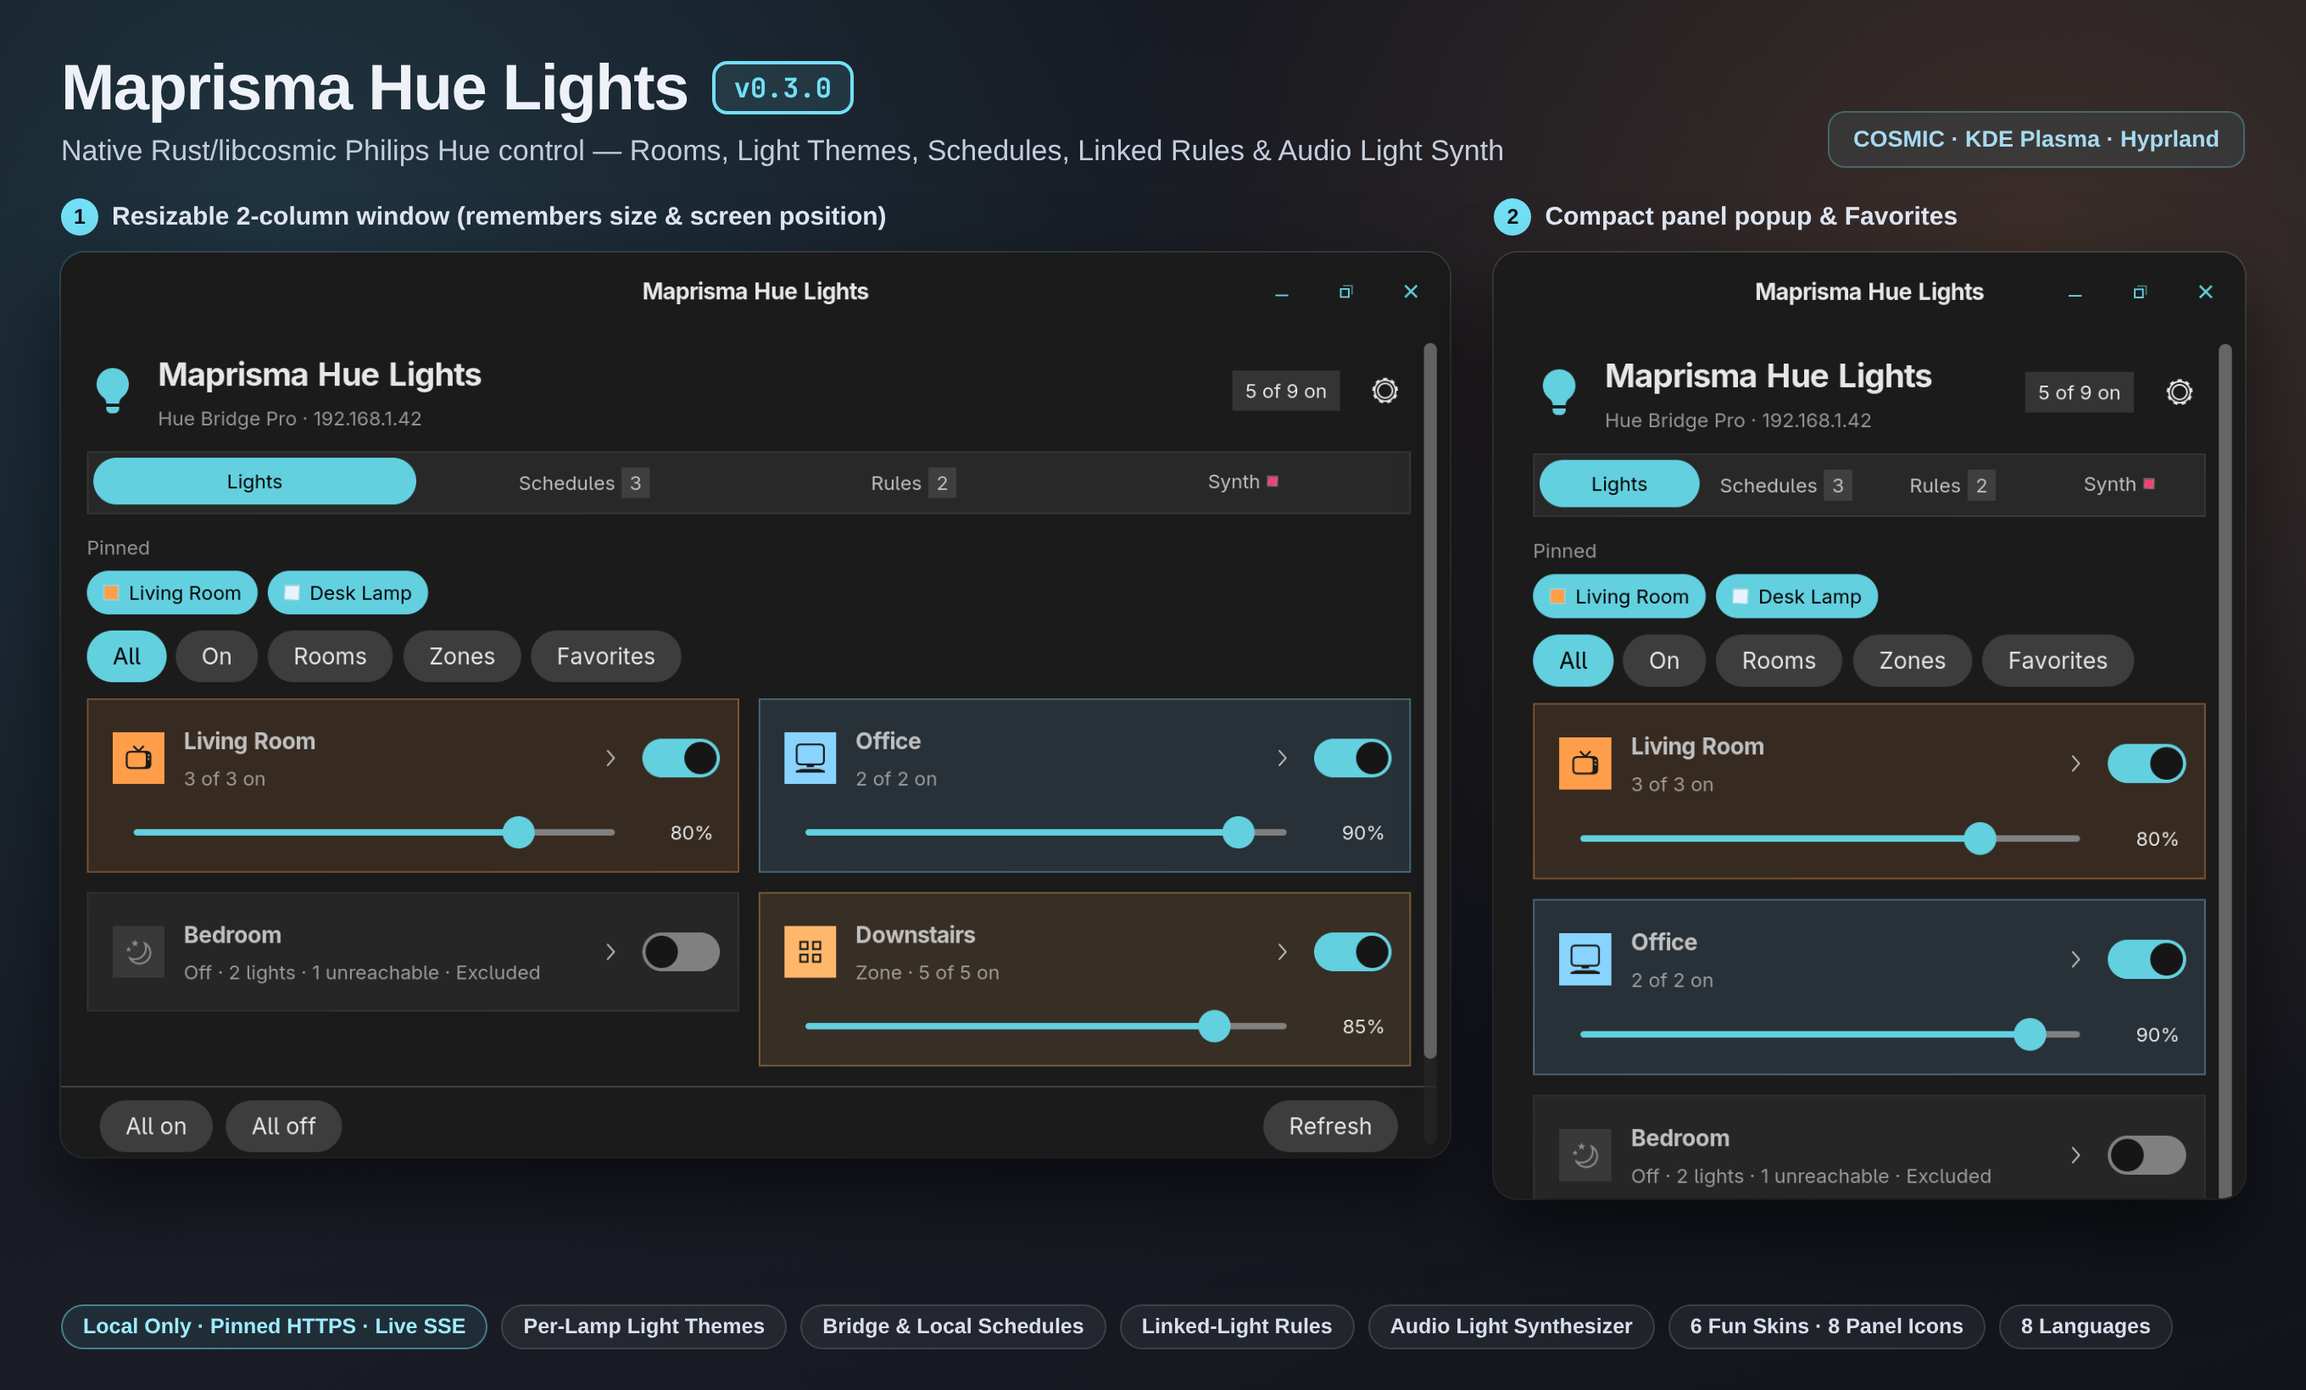
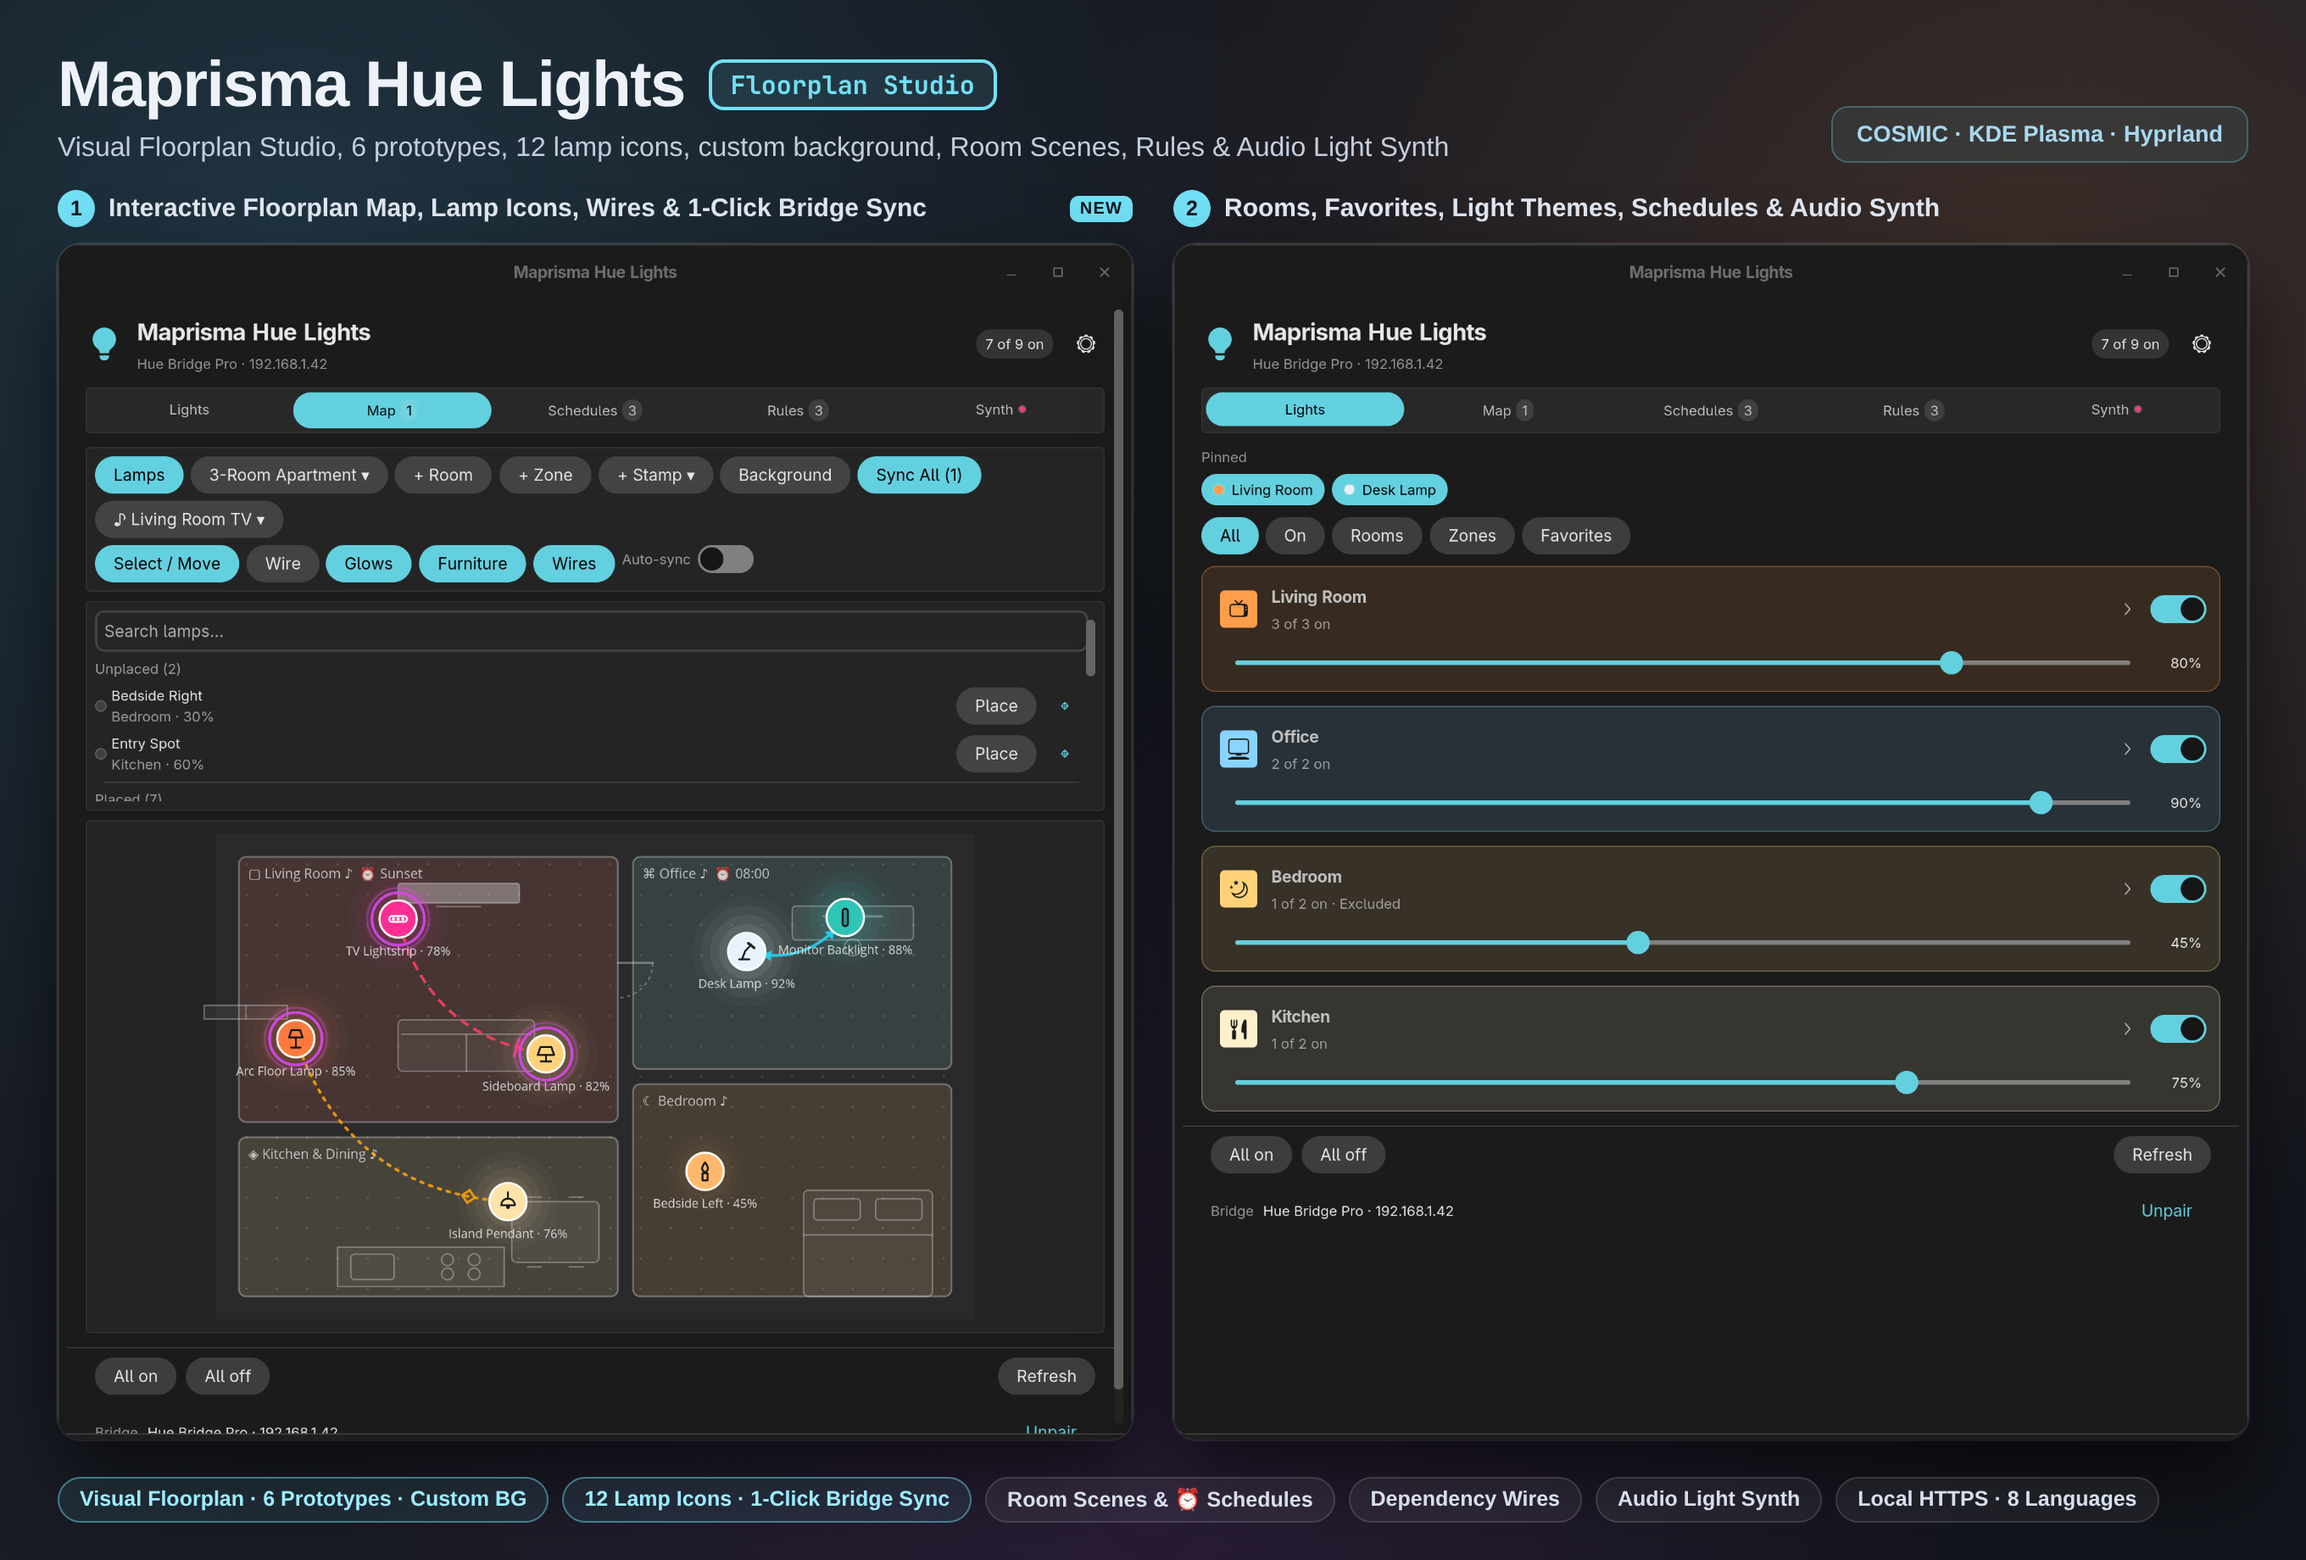
docs: add 2x Floorplan Studio screenshot and updated marketing descriptions

diff --git a/src/main.rs b/src/main.rs
@@ -3103,8 +3103,17 @@ impl<const WINDOW_MODE: bool> cosmic::Application for HueLights<WINDOW_MODE> {
             exclude_all_on: exclude_all_on_setting(),
             ..Default::default()
         };
-        // Debug builds only: start on the settings page (for off-screen screenshots).
-        app.settings_open = cfg!(debug_assertions) && std::env::var("MAPRISMA_SHOT_PAGE").as_deref() == Ok("settings");
+        // Debug builds only: start on a specific page/tab (for off-screen screenshots).
+        if cfg!(debug_assertions) {
+            match std::env::var("MAPRISMA_SHOT_PAGE").as_deref() {
+                Ok("settings") => app.settings_open = true,
+                Ok("map") => app.tab = Tab::Map,
+                Ok("schedules") => app.tab = Tab::Schedules,
+                Ok("rules") => app.tab = Tab::Rules,
+                Ok("synth") => app.tab = Tab::Synth,
+                _ => {}
+            }
+        }
         let title = if window_mode { app.name_window() } else { Task::none() };
         if window_mode {
             app.resize = window_size::Debounce::new(start_size);

diff --git a/README.md b/README.md
@@ -1,18 +1,19 @@
 # Maprisma Hue Lights
 
-A native Linux desktop & panel app (Rust/libcosmic) for **Philips Hue** on **COSMIC**, **KDE Plasma**, and **Hyprland**. Control rooms, zones, individual lights, color, Kelvin warmth, native CLIP v2 effects, per-lamp Light Themes, Bridge or local schedules, linked-light rules, and a real-time Audio-Reactive Light Synthesizer — directly over your local Hue Bridge with pinned HTTPS and zero cloud account.
+A native Linux desktop & panel app (Rust/libcosmic) for **Philips Hue** on **COSMIC**, **KDE Plasma**, and **Hyprland**. Design an interactive **Visual Floorplan & Spatial Light Studio** for your home, control rooms, zones, individual lights, color, Kelvin warmth, native CLIP v2 effects, per-lamp Light Themes, Bridge or local schedules, linked-light rules, and a real-time Audio-Reactive Light Synthesizer — directly over your local Hue Bridge with pinned HTTPS and zero cloud account.
 
 ![Maprisma Hue Lights](preview.png)
 
-## Highlights (v0.3.0)
+## Highlights
 
+- **Visual Floorplan & Spatial Light Studio (`Map` tab):** Place lamps freely from a searchable **Unplaced / Placed** sidebar onto an interactive 2D home canvas with live color halos. Start from **6 editable house/apartment prototypes** (*Auto from Hue Bridge, Studio / Loft, 1-Bedroom Apartment, 3-Room Apartment, Family House + Terrace, Desk & Gaming Studio*) with draggable, 90°-rotatable architectural furniture stamps (*Door, Window, Sofa, TV, Desk, Bed, Dining, Kitchen*) — or import an optional **custom floorplan background image** (PNG/JPG/WebP via native XDG Desktop Portal picker, with opacity & contain/cover controls). Pick from **12 custom vector lamp icons**, rename lamps inline, surround lamps with **resizable Room & Zone boxes**, trigger or save **Room Scenes**, schedule scenes in 1 click (**⏰ Schedule scene**), draw **typed Bezier dependency wires** (Solid Cyan *Follow/Mirror*, Dashed Coral *Exclusive*, Dotted Amber *Companion*, Magenta *Synth* halo), and push all changes + Entertainment Area 2D/3D positions to your Hue Bridge via **1-click Sync All** or **Auto-sync**.
 - **Lights, Rooms & Scenes:** One card per room and zone with Hue archetype icons, live CLIP v2 Server-Sent Events (`/eventstream/clip/v2`) updates, brightness sliders, filter pills (*All, On, Rooms, Zones, Favorites*), pinned **Favorites** strip, smart **All On** (with per-room *Exclude from All On* + optional confirmation) and **All Off**.
 - **Color, Kelvin Warmth, Effects & Per-Lamp Light Themes:** Expand any light for warmth presets (2000K–6500K), color swatches, native Hue effects (*Candle, Fire, Sparkle, Prism, …*), 8 curated **Light Themes** (*Reading, Relax, Focus, Sunset Glow, Deep Ocean, Cyberpunk, Fireplace, Nightlight*), plus custom themes saved to `themes.json` and *"Save current as theme"*.
-- **Schedules (`Bridge` or `Local`):** Create, toggle, and delete per-light or per-room schedules with weekday recurrence, brightness, and fade duration. Choose in Settings between **On Hue Bridge** (`behavior_instance`, runs 24/7 even when your PC is off, including sunrise/sunset) or **On this PC (live)** (`local_schedules.json`, cross-process deduplicated).
-- **Dependency / Linked-Light Rules:** Link lights and rooms with **Follow / Mirror**, **Exclusive**, and **Companion** rules (optional brightness matching, *Only if off*, overnight time windows, static cycle detection, state-aware echo suppression, pause toggle, and activity log).
+- **Schedules (`Bridge` or `Local`):** Create, toggle, and delete per-light, per-room, or **room-scene** schedules with weekday recurrence, brightness, and fade duration. Choose in Settings between **On Hue Bridge** (`behavior_instance`, runs 24/7 even when your PC is off, including sunrise/sunset) or **On this PC (live)** (`local_schedules.json`, cross-process deduplicated).
+- **Dependency / Linked-Light Rules:** Link lights and rooms — in the Rules tab or visually on the Floorplan Map — with **Follow / Mirror**, **Exclusive**, and **Companion** rules (optional brightness matching, *Only if off*, overnight time windows, static cycle detection, state-aware echo suppression, pause toggle, and activity log).
 - **Audio-Reactive Light Synthesizer (`Synth` tab):** Live 3-band Bass / Mids / Treble meters with beat detection driving your Hue lights in real time from **System audio** (`parec @DEFAULT_MONITOR@`), **Microphone** (`parec @DEFAULT_SOURCE@`), or built-in **Demo beat**. Choose from 4 modes (*Club, Chill, Ambient, Strobe*), 6 color palettes, target room, sensitivity/smoothness sliders, and per-light frequency band routing. Audio is analyzed strictly in memory and never recorded or transmitted.
 - **6 Skins, 8 Selectable Panel Icons & Appearance:** Pick from *System Native, Neon Synthwave, Cozy Cabin, Retro Terminal, Disco Lava*, or *Minimal Zen*, choose from 8 symbolic panel icons (with optional lit-count badge), adjust **Corners** and **Text size**, and use all 8 built-in languages (*English, Deutsch, Français, Español, Italiano, Português, Nederlands, Polski*).
-- **Saved Window Size & Screen Position:** Resizing or moving the `--window` window persists its size and (on Hyprland) screen position cleanly across restarts and across all 4 tabs.
+- **Saved Window Size & Screen Position:** Resizing or moving the `--window` window persists its size and (on Hyprland) screen position cleanly across restarts and across all 5 tabs.
 - **Pairing:** Automatic mDNS bridge discovery (`avahi-browse`) or manual local IPv4 address, then one press of the bridge's link button.
 
 ## Architecture & Privacy
@@ -20,7 +21,7 @@ A native Linux desktop & panel app (Rust/libcosmic) for **Philips Hue** on **COS
 All bridge traffic goes through `scripts/hue-lights.py` (Python 3 standard library only): JSON commands on stdin, JSON snapshots on stdout over live CLIP v2 SSE with REST fallback, pinned HTTPS (SHA-256 fingerprint + CN == bridge ID) on the local LAN only.
 
 - Bridge credentials (`app_key`) stay in `~/.config/hue-lights/config.json` (`0600`) and never reach the UI process.
-- Custom themes, rules, and local schedules live in `~/.config/hue-lights/{themes,rules,local_schedules}.json` (`0600`).
+- Floorplan layouts (`floorplan.json` + optional copied `floorplan_bg.<ext>`), custom themes, rules, and local schedules live in `~/.config/hue-lights/` (`0600`).
 - UI preferences (language, favorites, exclusions, skin, panel icon, corners, window size & position) live in `~/.config/maprisma-hue-lights/config.json`.
 
 ## F12: Screenshot with Optional Note
